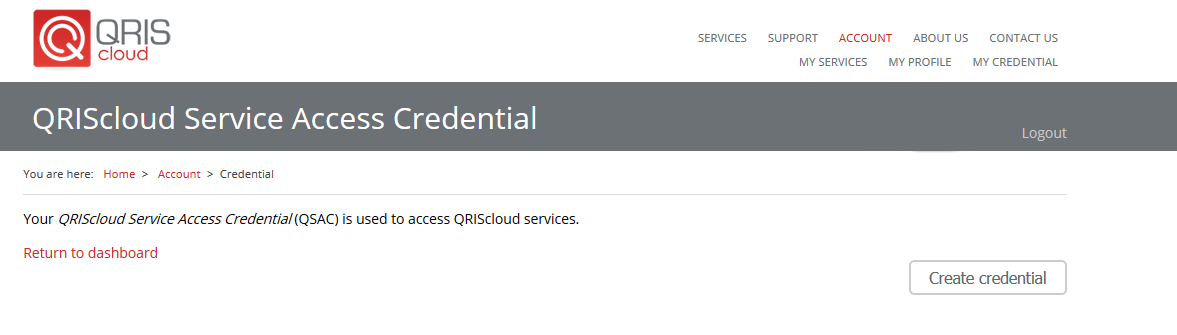
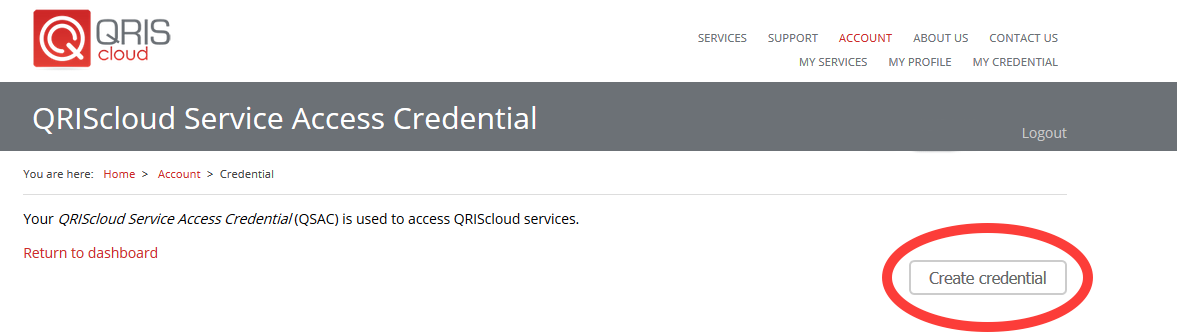
Updated creating your access credential.
Numbered steps, added bold red ovals around page actions.

Changed region(s): [[0.7341, 0.6567, 0.9482, 1.0]]

diff --git a/user-guide/creating_your_access_credential.rst b/user-guide/creating_your_access_credential.rst
@@ -2,6 +2,8 @@ Creating your Access Credential
 ===============================
 
 Before you can access Mediaflux or Aspera Shares at JCU an account is required on QRIScloud.
+Your access credential must also be generated.
+Please complete all steps 1 through to 8.
 
 What is QRIScloud ?
 ```````````````````
@@ -13,32 +15,33 @@ with QCIF to provide these services.
 Creating an Account
 -------------------
 
-Navigate to https://www.qriscloud.org.au and click on 'Account'
+1. Navigate to https://www.qriscloud.org.au and click on 'Account'
 
 .. image:: _static/QRIScloud_main.png
    :width: 100%
    :alt: Login page for QRIScloud services
+   :class: with-border
 
-Now, click on 'Login'
+2. Now, click on 'Login'
 
 .. image:: _static/QRIScloud_login.png
    :width: 100%
    :alt: Login page for QRIScloud services
 
 
-Search for "James Cook University", select it and click 'Continue to your organisation'
+3. Search for "James Cook University", select it and click 'Continue to your organisation'
 
 .. image:: _static/QRIScloud_AAF.png
    :width: 100%
    :alt: Select your organisation
 
-You will be redirected to the standard JCU login page. Please enter your credentials.
+4. You will be redirected to the standard JCU login page. Please enter your credentials.
 
 .. image:: _static/JCU_cas.png
    :width: 100%
    :alt: Select your organisation
 
-Complete your account registration. This information will allow QRIScloud to contact you regarding
+5. Complete your account registration. This information will allow QRIScloud to contact you regarding
 any compute and storage services you use.
 
 .. image:: _static/QRIScloud_acct_register.png
@@ -52,20 +55,20 @@ and password for accessing Mediaflux and/or Aspera Shares at JCU.
 Generating your credential
 --------------------------
 
-On the top right hand corner, click on 'My Credential'.
+6. On the top right hand corner, click on 'My Credential'.
 This page allows you to generate your username and password or to reset your password if required.
 
 .. image:: _static/QRIScloud_acct_created.png
   :width: 100%
   :alt: QRIScloud account registered
 
-Click on 'Create Credential'
+7. Click on 'Create Credential'
 
 .. image:: _static/QRIScloud_QSAC_create.png
    :width: 100%
    :alt: QRIScloud Service Access Credential created
 
-Your username and password have now been generated. Remember them, they will be used to access Mediaflux and/or Aspera Shares at JCU.
+8. Your username and password have now been generated. Remember them, they will be used to access Mediaflux and/or Aspera Shares at JCU.
 They can also be used to access other services provided by QRIScloud.
 
 .. image:: _static/QRIScloud_QSAC_generated.png
